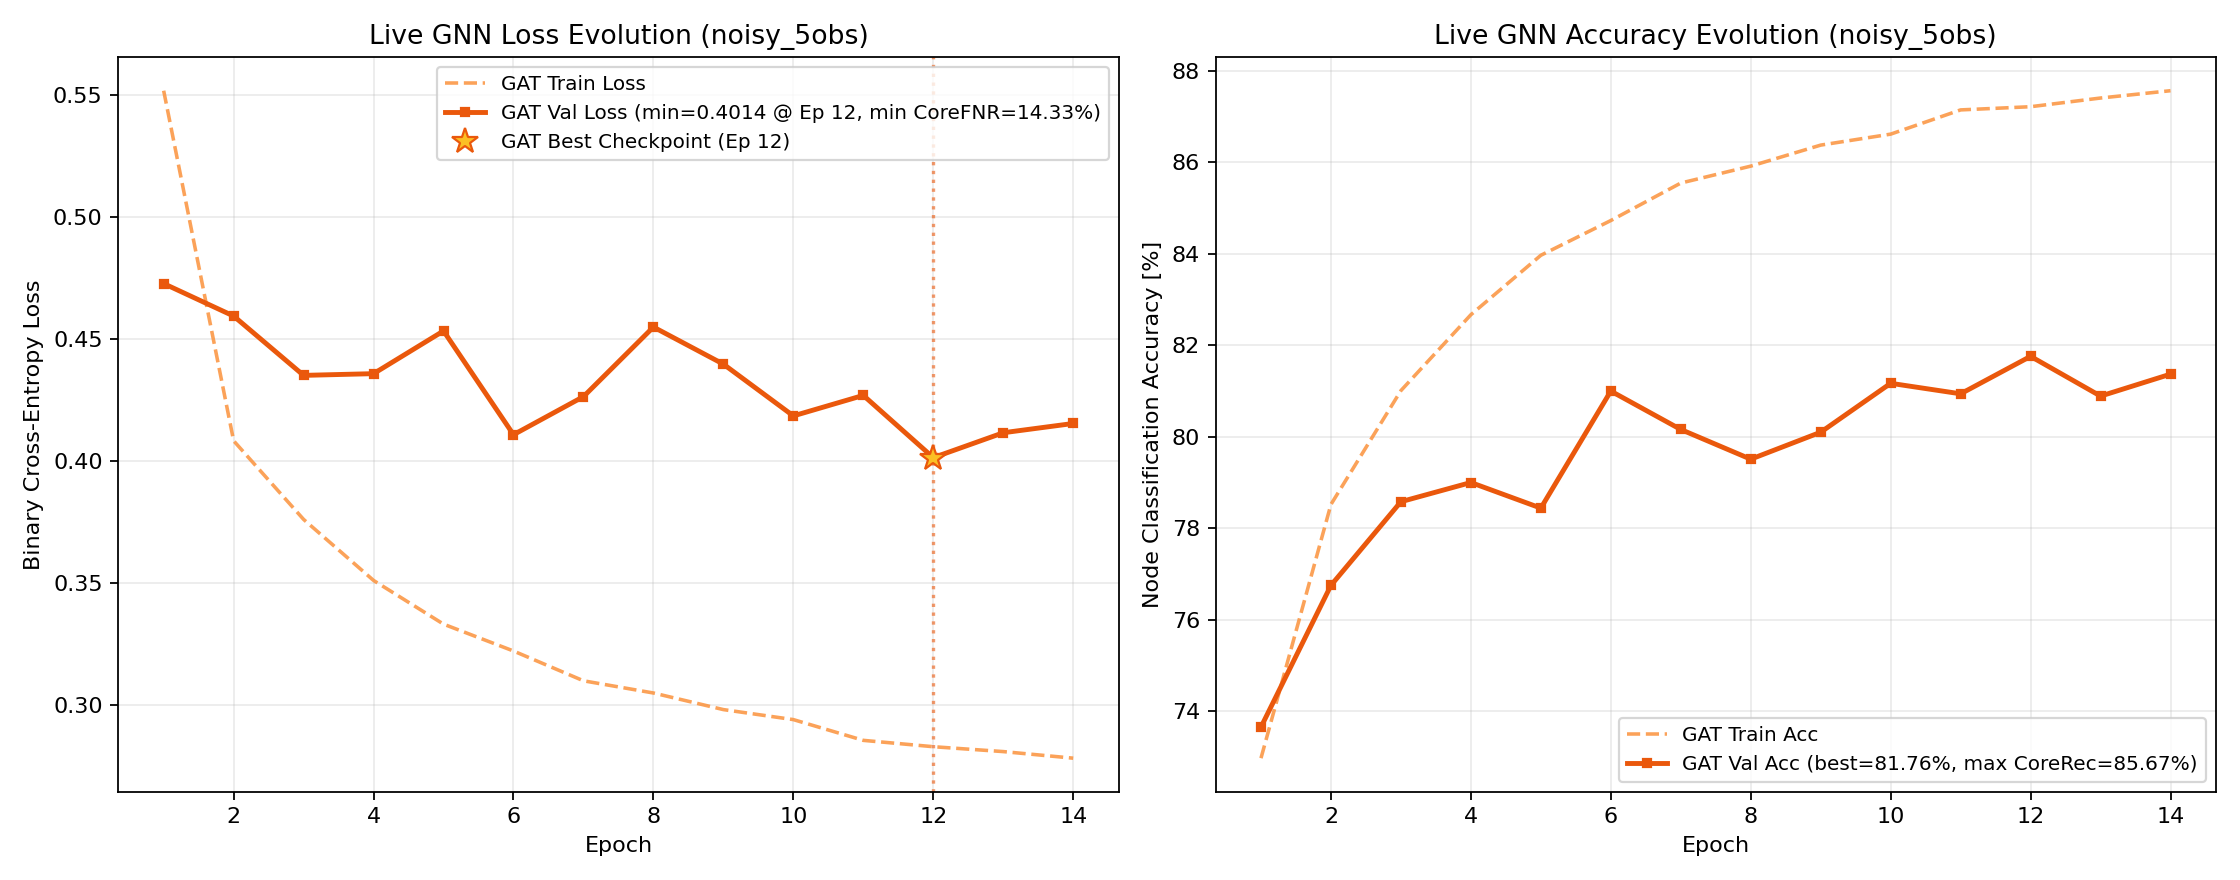
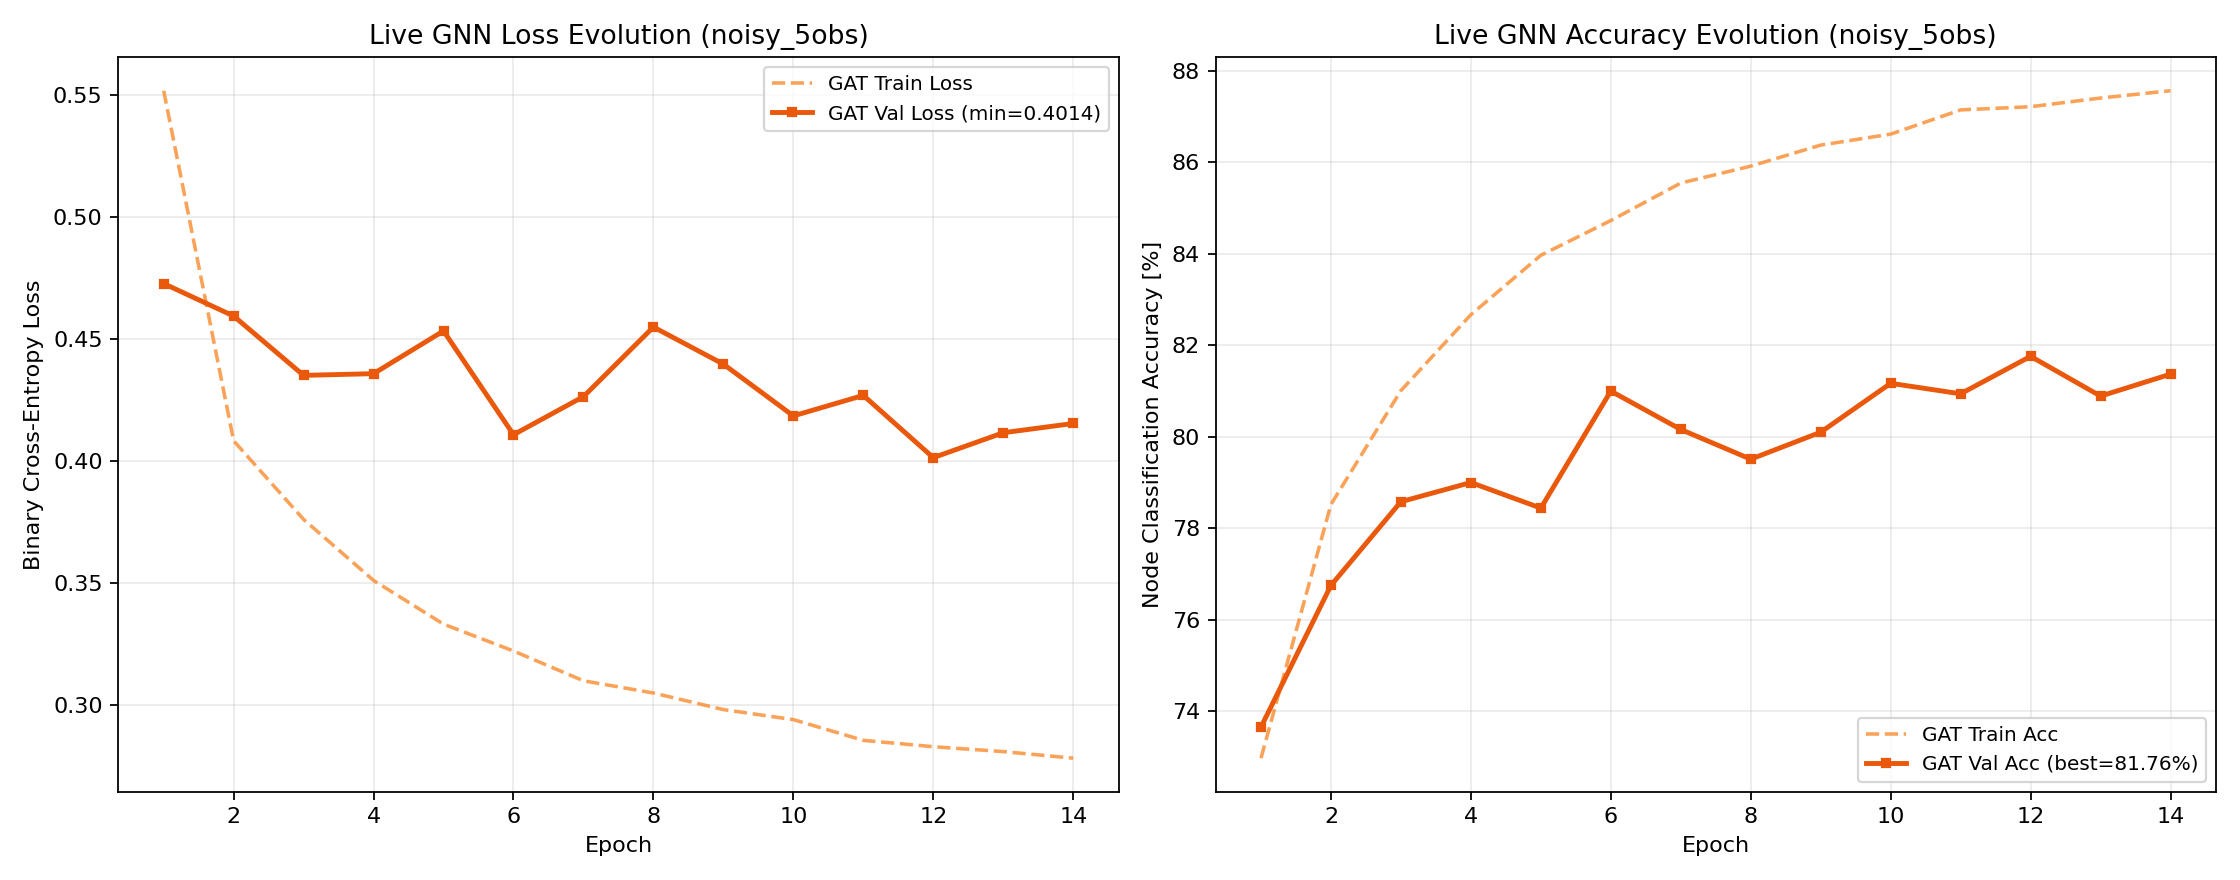
Update Study 2 live status and figures (2026-11-14 12:09)

Changed region(s): [[0.1875, 0.0614, 0.5, 0.1841], [0.7188, 0.7977, 1.0, 0.8898]]

diff --git a/LIVE_STATUS.md b/LIVE_STATUS.md
@@ -1,17 +1,16 @@
 # Live Pipeline Status on Jed
 
 ```text
-[2026-11-14 12:09:40] Study 2 Pipeline Status on Jed
+[2026-11-14 12:09:51] Study 2 Pipeline Status on Jed
 - Step 1 (Plummer ICs): 81 / 81 ready
 - Step 2 (SWIFT Runs): 81 / 81 completed (101 snapshots)
 - Step 3 (Observables): Labels=81/81 | Clean=81/81 | GaiaNoisy=81/81
 - Step 4 (5D Graphs): Clean=81/81 | GaiaNoisy=81/81
 - Step 5/6 Live GNN Training Progress:
-  * clean_5obs/training_metrics_gat_clean.log: Ep 045 | Train 0.1338 (94.72%) | Val 0.2092 (91.96%, Best=91.99%) | CoreFNR: 11.06% (min=8.41%) | Test=91.43%
+  * clean_5obs/training_metrics_gat_clean.log: Ep 045 | Train 0.1338 (94.72%) | Val 0.2092 (91.96%, Best=91.99%) | Test=91.43%
   * clean_5obs/training_metrics_gcn_clean.log: Ep 025 | Train 0.1136 (95.42%) | Val 0.1820 (92.33%, Best=92.33%) | Test=92.17%
   * legacy/clean_5obs_static_5rot/training_metrics_gcn_clean.log: Ep 025 | Train 0.1136 (95.42%) | Val 0.1820 (92.33%, Best=92.33%) | Test=92.17%
-  * noisy_5obs/training_metrics_gat_noisy.log: Ep 014 | Train 0.2783 (87.57%) | Val 0.4154 (81.37%, Best=81.76%) | CoreFNR: 27.15% (min=14.33%) | Test=In progress
-- Saved Model Checkpoints (.pth): 9 mirrored in GNN-jed/trained_models/study2/weights/
+  * noisy_5obs/training_metrics_gat_noisy.log: Ep 014 | Train 0.2783 (87.57%) | Val 0.4154 (81.37%, Best=81.76%) | Test=In progress
 
 SLURM Queue:
 JOBID  PARTITION                   NAME   ST       TIME  NODES NODELIST(REASON)
@@ -21,31 +20,17 @@ JOBID  PARTITION                   NAME   ST       TIME  NODES NODELIST(REASON)
 41146835_[0-4%   academic      Study2_Step6_4Obs   PD       0:00      2 (Dependency)
       41185010   academic Study2V2_Step4_BuildGr   PD       0:00      1 (Dependency)
 41185009_[0-80   academic Study2V2_Step3_Extract   PD       0:00      1 (Dependency)
-      41146834   academic   Study2_Step5_Train81    R 1-21:23:32      2 jst[317,320]
+      41146834   academic   Study2_Step5_Train81    R 1-21:24:12      2 jst[317,320]
 ```
 
 ## Live Neural Network Training Metrics
 
-| Experiment | Architecture | Latest Epoch | Train Loss | Train Acc | Val Loss | Val Acc | Best Val Acc | Core FNR | Test Acc | Test F1 |
-| :--- | :---: | :---: | :---: | :---: | :---: | :---: | :---: | :---: | :---: | :---: |
-| `clean_5obs` | **GAT** | 45 | 0.1338 | 94.72% | 0.2092 | 91.96% | **91.99%** | 9.22% (val: 8.41%) | **91.43%** | 0.8807 |
-| `clean_5obs` | **GCN** | 25 | 0.1136 | 95.42% | 0.1820 | 92.33% | **92.33%** | - | **92.17%** | 0.8886 |
-| `clean_5obs_static_5rot` | **GCN** | 25 | 0.1136 | 95.42% | 0.1820 | 92.33% | **92.33%** | - | **92.17%** | 0.8886 |
-| `noisy_5obs` | **GAT** | 14 | 0.2783 | 87.57% | 0.4154 | 81.37% | **81.76%** | 14.33% (val min) | **In progress** | - |
-
-## Saved Model Weights (`.pth` Checkpoints)
-
-| Checkpoint | Size | Experiment Path | Central Archive Mirror |
-| :--- | :---: | :--- | :--- |
-| `best_gat_clean.pth` | 361.2 KB | `GNN-jed/trained_models/study2/clean_5obs/best_gat_clean.pth` | `GNN-jed/trained_models/study2/weights/best_gat_clean.pth` |
-| `best_gat_clean_ep18_backup.pth` | 361.2 KB | `GNN-jed/trained_models/study2/clean_5obs/best_gat_clean_ep18_backup.pth` | `GNN-jed/trained_models/study2/weights/best_gat_clean_ep18_backup.pth` |
-| `best_gcn_clean.pth` | 120.0 KB | `GNN-jed/trained_models/study2/clean_5obs/best_gcn_clean.pth` | `GNN-jed/trained_models/study2/weights/best_gcn_clean.pth` |
-| `best_gat_clean_ep18_backup.pth` | 361.2 KB | `GNN-jed/trained_models/study2/legacy/clean_5obs_static_5rot/best_gat_clean_ep18_backup.pth` | `GNN-jed/trained_models/study2/weights/best_gat_clean_ep18_backup.pth` |
-| `best_gcn_clean.pth` | 120.0 KB | `GNN-jed/trained_models/study2/legacy/clean_5obs_static_5rot/best_gcn_clean.pth` | `GNN-jed/trained_models/study2/weights/best_gcn_clean.pth` |
-| `best_gat_clean.pth` | 361.2 KB | `GNN-jed/trained_models/study2/legacy/weights/best_gat_clean.pth` | `GNN-jed/trained_models/study2/weights/best_gat_clean.pth` |
-| `best_gat_clean_ep18_backup.pth` | 361.2 KB | `GNN-jed/trained_models/study2/legacy/weights/best_gat_clean_ep18_backup.pth` | `GNN-jed/trained_models/study2/weights/best_gat_clean_ep18_backup.pth` |
-| `best_gcn_clean.pth` | 120.0 KB | `GNN-jed/trained_models/study2/legacy/weights/best_gcn_clean.pth` | `GNN-jed/trained_models/study2/weights/best_gcn_clean.pth` |
-| `best_gat_noisy.pth` | 361.2 KB | `GNN-jed/trained_models/study2/noisy_5obs/best_gat_noisy.pth` | `GNN-jed/trained_models/study2/weights/best_gat_noisy.pth` |
+| Experiment | Architecture | Latest Epoch | Train Loss | Train Acc | Val Loss | Val Acc | Best Val Acc | Test Acc | Test F1 |
+| :--- | :---: | :---: | :---: | :---: | :---: | :---: | :---: | :---: | :---: |
+| `clean_5obs` | **GAT** | 45 | 0.1338 | 94.72% | 0.2092 | 91.96% | **91.99%** | **91.43%** | 0.8807 |
+| `clean_5obs` | **GCN** | 25 | 0.1136 | 95.42% | 0.1820 | 92.33% | **92.33%** | **92.17%** | 0.8886 |
+| `clean_5obs_static_5rot` | **GCN** | 25 | 0.1136 | 95.42% | 0.1820 | 92.33% | **92.33%** | **92.17%** | 0.8886 |
+| `noisy_5obs` | **GAT** | 14 | 0.2783 | 87.57% | 0.4154 | 81.37% | **81.76%** | **In progress** | - |
 
 ## Real-Time GNN Learning Curves (Loss & Accuracy Evolution)
 
